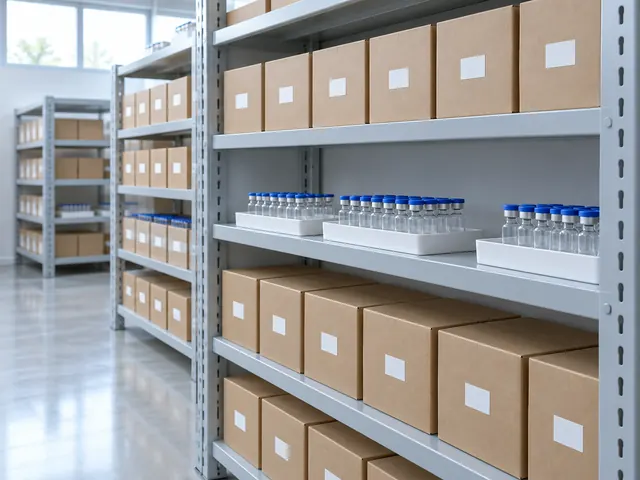
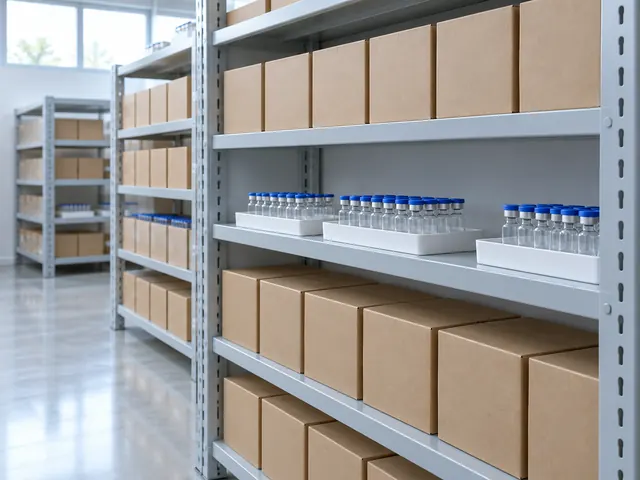
feat(wholesale): plain, unlabelled cartons in the photos
The owner: "our packaging is just a box really, nothing like a purse or a
branded box just a plain box." Wholesale ships in plain brown cartons
with no labels, so no photo shows a label on one.

- cartons-labelled (a Vialhouse label composited onto the carton) is
  replaced by cartons: round two's blank-label original with the blank
  label retouched out (board cloned from the next carton and
  colour-matched). Same size and widths.
- stockroom: the model's blank white labels on every carton retouched
  out (found automatically, filled from the board around them; the far
  shelves by hand).
- Alt text and the photo notes say the cartons are plain and unlabelled;
  each image keeps its TODO(launch) note.

diff --git a/brands/wholesale/copy/images.ts b/brands/wholesale/copy/images.ts
@@ -1,17 +1,17 @@
 /**
- * Vialhouse's photographs, every one an AI-generated stand-in (approved by
+ * BulkBac's photographs, every one an AI-generated stand-in (approved by
  * the owner for the redesign), in public/wholesale/images/ at three widths
  * each: <name>-640.webp, <name>-960.webp and <name>-<full>.webp.
  *
  * Every one keeps the product truth: a clear 10ml glass vial, a royal blue
- * flip-off cap over a silver aluminium crimp, a blank label, and the brand
- * only on the carton. The Vialhouse shipping label on the carton photo is
- * not the model's: it is drawn from the brand's own wordmark and the
- * catalogue's real code (WHL-10ML-X100) and laid onto a blank label, and
- * its bars encode nothing.
+ * flip-off cap over a silver aluminium crimp, a blank label, and plain
+ * brown cartons with no label, print or brand on them (the owner, 6 Nov
+ * 2026: "our packaging is just a box really ... just a plain box"). The
+ * brand is on the website only. The blank labels the model put on the
+ * cartons in the carton and stockroom photos were retouched out.
  *
  * TODO(launch): replace every image here with real photography of the
- * packed product and the real outer carton and label.
+ * packed product and the real outer carton.
  *
  * Plain data, imported by server and client components alike.
  */
@@ -48,11 +48,11 @@ export const GALLERY: readonly Photo[] = [
     "Shrink-wrapped tray"
   ),
   photo(
-    "/images/cartons-labelled-1280.webp",
+    "/images/cartons-1280.webp",
     1280,
     960,
-    "Three plain brown cartons stacked on a concrete floor, the front one carrying a Vialhouse label with the code WHL-10ML-X100 and the line 100 × 10ml vials.",
-    "Labelled cartons"
+    "Three plain brown cartons, unprinted and unlabelled, stacked on a concrete floor against a pale wall.",
+    "Cartons"
   ),
   photo(
     "/images/vial-packshot-1280.webp",
@@ -65,7 +65,7 @@ export const GALLERY: readonly Photo[] = [
     "/images/stockroom-1280.webp",
     1280,
     960,
-    "A tidy stockroom: grey steel shelving with rows of plain brown cartons and white trays of blue-capped vials.",
+    "A tidy stockroom: grey steel shelving with rows of plain, unlabelled brown cartons and white trays of blue-capped vials.",
     "Stockroom"
   ),
 ];
